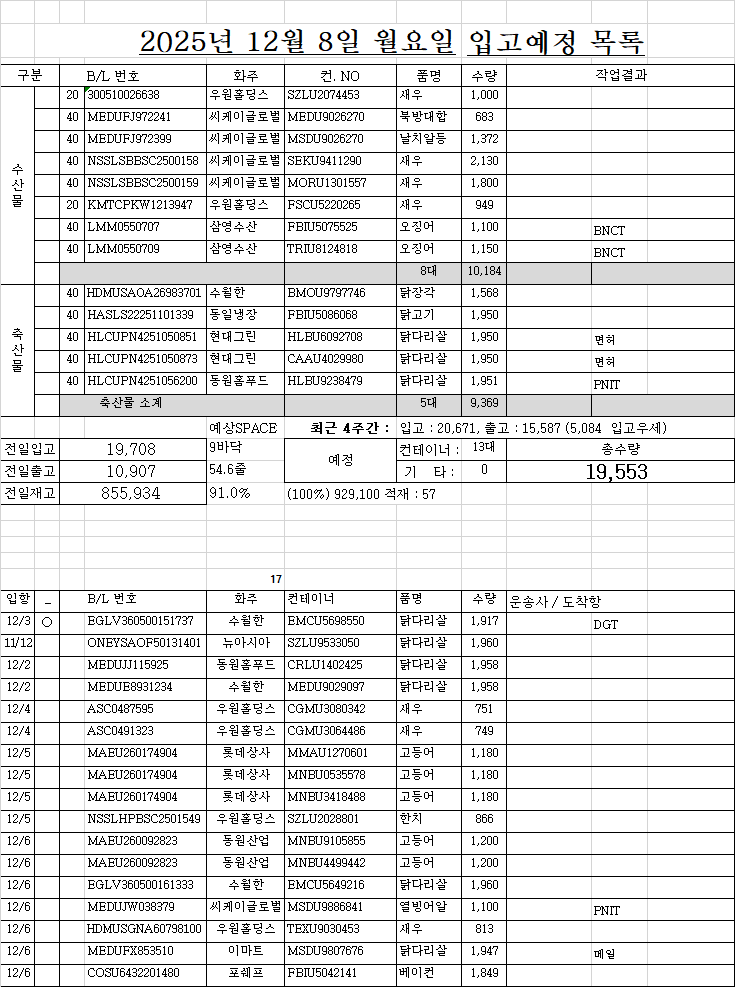
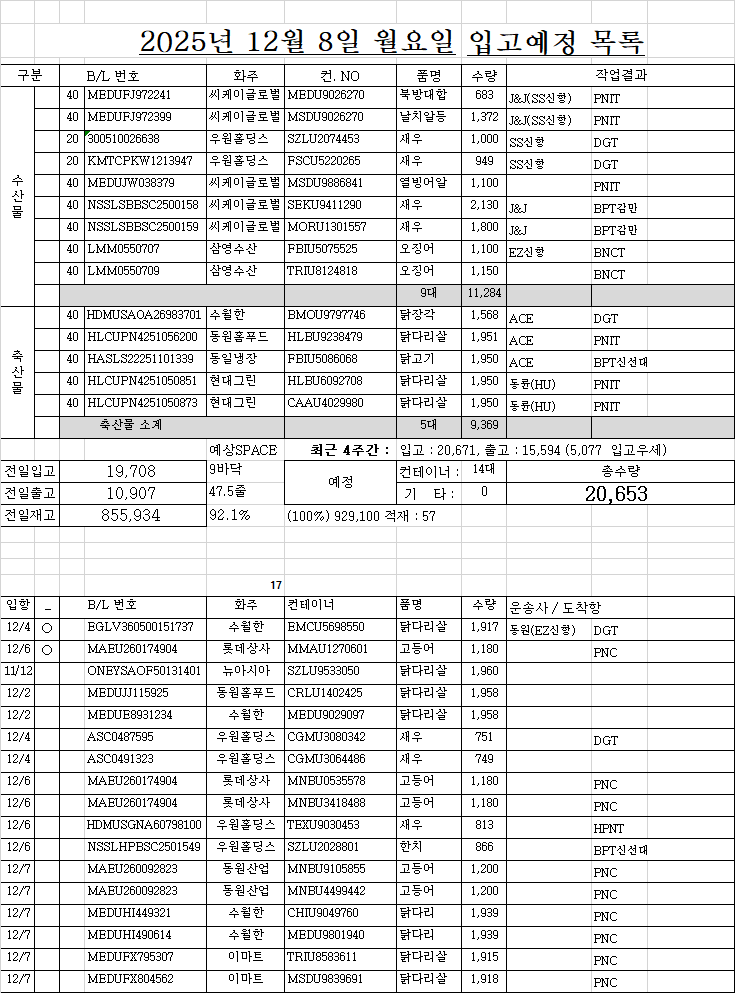
dsfsdfds

diff --git a/list.html b/list.html
@@ -125,80 +125,80 @@
 </div>
 <!-- ★★★★★★ 따로 빼 놔야한다. 복붙하면 첫칸 비어도 되는데, 여기서는 첫칸비우면 당겨진다. -->
 <!-- ★ 엑셀범위를 브라우저 textarea에 붙여넣으면 첫셀 비어도 제대로 되는데... HTML에 붙여놓은 자료는 처음셀이 비어있으면 당겨짐 -->
-<div class="d-none" id="원본text_리스트1부터w요약열까지">작성	면허	B/LNO.	화주	컨테이너NO.	품명	수량	반입NO.	입항일	구분	도착일	도착시간	구분	운.도VBA	12/05 금 16:45	화찰BL	화찰 선명	화물관리번호	화찰수량	화찰중량	화찰입항	리스트시트기준열	
-1	○	300510026638	우원홀딩스	SZLU2074453	새우	1,000 		12/2	1			20 			300510026638	KMTC SEOUL	25KMTC4173I-1015-	1,000 	15,000.00 	2025.12.05	12/05 금 16:45	
-1	○	MEDUFJ972241	씨케이글로벌	MEDU9026270	북방대합	683 		12/5	1						MEDUFJ972241	MSC BEIRA IV	25MSCU4471I-0313-	683 	2,900.80 	2025.12.05	조회정보	
-1	○	MEDUFJ972399	씨케이글로벌	MSDU9026270	날치알등	1,372 		12/5	1						MEDUFJ972399	MSC BEIRA IV	25MSCU4471I-0312-	1,372 	20,972.15 	2025.12.05	적재	57 
-1	○	NSSLSBBSC2500158	씨케이글로벌	SEKU9411290	새우	2,130 		12/5	1						NSSLSBBSC2500158	STARSHIP VENUS	25NSSLK040I-3029-	2,130 	12,268.80 	2025.12.06	4,617 	3줄
-1	○	NSSLSBBSC2500159	씨케이글로벌	MORU1301557	새우	1,800 		12/5	1						NSSLSBBSC2500159	STARSHIP VENUS	25NSSLK040I-3030-	1,800 	21,600.00 	2025.12.06	6,156 	4줄
-1	○	KMTCPKW1213947	우원홀딩스	FSCU5220265	새우	949 		12/5	1			20 			KMTCPKW1213947	KMTC SEOUL	25KMTC4173I-0052-	949 	9,992.97 	2025.12.05	7,695 	5줄
-1		LMM0550707	삼영수산	FBIU5075525	오징어	1,100 	BNCT	12/6	1				BNCT			CMA CGM XIAMEN					9,234 	6줄
-1		LMM0550709	삼영수산	TRIU8124818	오징어	1,150 	BNCT	12/6	1				BNCT			CMA CGM XIAMEN						
-1	○	HDMUSAOA26983701	수월한	BMOU9797746	닭장각	1,568 		11/30	2						HDMUSAOA26983701	NYK RUMINA	25ONEY1485I-7016-	1,568 	24,304.00 	2025.11.30	출고/입고 4주간	
-1	○	HASLS22251101339	동일냉장	FBIU5086068	닭고기	1,950 		12/4	2						HASLS22251101339	SAWASDEE DENEB	25SNKO4590I-8336-	1,950 	24,960.00 	2025.12.04	1일 7/5	5일줄
-1	○	HLCUPN4251050851	현대그린	HLBU6092708	닭다리살	1,950 	면허	12/4	2						HLCUPN4251050851	ONE SAPPHIRE	25ONEY1495I-6510-	1,950 	24,219.00 	2025.12.04	15,587 	50.6
-1	○	HLCUPN4251050873	현대그린	CAAU4029980	닭다리살	1,950 	면허	12/4	2						HLCUPN4251050873	ONE SAPPHIRE	25ONEY1495I-6511-	1,950 	24,219.00 	2025.12.04	20,671 	67.2
-1	○	HLCUPN4251056200	동원홈푸드	HLBU9238479	닭다리살	1,951 	PNIT	12/5	2				PNIT		HLCUPN4251056200	ONE SAPPHIRE	25ONEY1495I-6513-	1,951 	24,398.96 	2025.12.04	내국제외	
-2	○	EGLV360500151737	수월한	EMCU5698550	닭다리살	1,917 	DGT	12/3	2				DGT		EGLV360500151737	EVER VAST	25EVER6141I-0460-	1,917 	23,962.50 	2025.12.04	구분	대수
-		ONEYSAOF50131401	뉴아시아	SZLU9533050	닭다리살	1,960 		11/12	2												수산	20
-		MEDUJJ115925	동원홈푸드	CRLU1402425	닭다리살	1,958 		12/2	2							ONE AMAZON					축산	54
-		MEDUE8931234	수월한	MEDU9029097	닭다리살	1,958 		12/2	2							ONE AMAZON					합계	74
-		ASC0487595	우원홀딩스	CGMU3080342	새우	751 		12/4	1			20 										
-		ASC0491323	우원홀딩스	CGMU3064486	새우	749 		12/4	1			20 									화주별 요약	
-		MAEU260174904	롯데상사	MMAU1270601	고등어	1,180 		12/5	1												화주	대수
-		MAEU260174904	롯데상사	MNBU0535578	고등어	1,180 		12/5	1												수월한	21
-		MAEU260174904	롯데상사	MNBU3418488	고등어	1,180 		12/5	1												대상 주식회사	9
-		NSSLHPBSC2501549	우원홀딩스	SZLU2028801	한치	866 		12/5	1			20 									우원홀딩스	7
-		MAEU260092823	동원산업	MNBU9105855	고등어	1,200 		12/6	1												참트레이딩	6
-		MAEU260092823	동원산업	MNBU4499442	고등어	1,200 		12/6	1												씨케이글로벌	5
-		EGLV360500161333	수월한	EMCU5649216	닭다리살	1,960 		12/6	2							 EVER VIVE					아스트로스	5
-		MEDUJW038379	씨케이글로벌	MSDU9886841	열빙어알	1,100 	PNIT	12/6	1				PNIT			MSC ANNABELLA					이마트	4
-		HDMUSGNA60798100	우원홀딩스	TEXU9030453	새우	813 		12/6	1			20 									삼영수산	3
-		MEDUFX853510	이마트	MSDU9807676	닭다리살	1,947 	메일	12/6	2												롯데상사	3
-		COSU6432201480	포쉐프	FBIU5042141	베이컨	1,849 		12/6	2												현대그린	2
-		MAEUJBS289851	오케이푸드	MMAU1084145	닭다리살	1,953 		12/7	2												동원홈푸드	2
-		HLCUPN4251057650	오케이푸드	SEGU9418480	닭다리살	1,958 		12/8	2												동원산업	2
-		MEDUFX795307	이마트	TRIU8583611	닭다리살	1,915 	메일	12/8	2												오케이푸드	2
-		MEDUFX804562	이마트	MSDU9839691	닭다리살	1,918 	메일	12/8	2												대성무역	2
-		SSZ1691934	대상 주식회사	CGMU5519882	닭발	1,500 		12/9	2												동일냉장	1
-		MAEUJBS288307	수월한	MNBU0304856	닭다리	1,900 		12/9	2							MAERSK EDIRNE					뉴아시아	1
-		MAEUJBS289850	수월한	SUDU8246685	닭다리	1,939 		12/9	2							MAERSK EDIRNE					포쉐프	1
-		MAEUJBS288748	이마트	MNBU4348955	닭다리살	1,908 	메일	12/9	2												합계	76
-		HDMUSAOA12425500	대상 주식회사	TEMU9688332	닭발	1,666 		12/10	2													
-		EGLV360500156836	수월한	EMCU5455381	닭다리살	1,960 		12/10	2							 EVER VIVE						
-		MEDUHI449321	수월한	CHIU9049760	닭다리	1,939 		12/10								MSC TRIESTE						
-		MEDUHI490614	수월한	MEDU9801940	닭다리	1,939 		12/10														
-		ONEYSAOF55632801	수월한	ONEU9121150	닭다리살	1,960 		12/10	2													
-		ONEYSAOF55632805	수월한	TRIU8015416	닭다리살	1,917 		12/10	2													
-		ONEYSAOF55632816	수월한	IKSU2508322	닭다리살	1,917 		12/10	2							REN JIAN 20						
-		ONEYSAOF58679800	수월한	ONEU9474141	닭다리살	1,960 		12/10	2													
-		ONEYSAOF58679803	수월한	ONEU9117838	닭다리살	1,917 		12/10	2													
-		EGLV360500160362	아스트로스	EMCU5704530	닭다리살	1,960 		12/10	2							 EVER VIVE						
-		MAEU607470276	참트레이딩	MNBU3610356	닭장각	1,568 	PNC	12/10	2				PNC			MAERSK EDIRNE						
-		SSZ1694827	대상 주식회사	SEKU9252516	닭발	1,500 		12/11	2													
-		ONEYSAOF55412400	수월한	ONEU9009772	닭다리살	1,917 		12/11	2													
-		ONEYSAOF55412401	아스트로스	TTNU8740871	닭다리살	1,960 		12/11	2													
-		HDMUSGNA77191502	우원홀딩스	TEKU9033956	새우	876 		12/11	1			20 										
+<div class="d-none" id="원본text_리스트1부터w요약열까지">작성	면허	B/LNO.	화주	컨테이너NO.	품명	수량	반입NO.	입항일	구분	도착일	도착시간	구분	운.도VBA	12/05 금 17:07	화찰BL	화찰 선명	화물관리번호	화찰수량	화찰중량	화찰입항	리스트시트기준열	
+1	○	MEDUFJ972241	씨케이글로벌	MEDU9026270	북방대합	683 	J&J(SS신항).PNIT	12/5	1				J&J(SS신항).PNIT		MEDUFJ972241	MSC BEIRA IV	25MSCU4471I-0313-	683 	2,900.80 	2025.12.05	12/05 금 17:07	
+1	○	MEDUFJ972399	씨케이글로벌	MSDU9026270	날치알등	1,372 	J&J(SS신항).PNIT	12/5	1				J&J(SS신항).PNIT		MEDUFJ972399	MSC BEIRA IV	25MSCU4471I-0312-	1,372 	20,972.15 	2025.12.05	조회정보	
+1	○	300510026638	우원홀딩스	SZLU2074453	새우	1,000 	SS신항.DGT	12/5	1			20 	SS신항.DGT		300510026638	KMTC SEOUL	25KMTC4173I-1015-	1,000 	15,000.00 	2025.12.05	적재	57 
+1	○	KMTCPKW1213947	우원홀딩스	FSCU5220265	새우	949 	SS신항.DGT	12/5	1			20 	SS신항.DGT		KMTCPKW1213947	KMTC SEOUL	25KMTC4173I-0052-	949 	9,992.97 	2025.12.05	4,617 	3줄
+1	○	MEDUJW038379	씨케이글로벌	MSDU9886841	열빙어알	1,100 	PNIT	12/6	1				PNIT		MEDUJW038379	MSC ANNABELLA	25MSCU3319I-0149-	1,100 	24,640.00 	2025.12.06	6,156 	4줄
+1	○	NSSLSBBSC2500158	씨케이글로벌	SEKU9411290	새우	2,130 	J&J.BPT감만	12/6	1				J&J.BPT감만		NSSLSBBSC2500158	STARSHIP VENUS	25NSSLK040I-3029-	2,130 	12,268.80 	2025.12.06	7,695 	5줄
+1	○	NSSLSBBSC2500159	씨케이글로벌	MORU1301557	새우	1,800 	J&J.BPT감만	12/6	1				J&J.BPT감만		NSSLSBBSC2500159	STARSHIP VENUS	25NSSLK040I-3030-	1,800 	21,600.00 	2025.12.06	9,234 	6줄
+1	○	LMM0550707	삼영수산	FBIU5075525	오징어	1,100 	EZ신항.BNCT	12/8	1				EZ신항.BNCT		LMM0550707	CMA CGM RIMBAUD	25CMAL0672I-2035-	1,100 	23,890.00 	2025.12.06		
+1		LMM0550709	삼영수산	TRIU8124818	오징어	1,150 	BNCT	12/8	1				BNCT			CMA CGM XIAMEN					출고/입고 4주간	
+1	○	HDMUSAOA26983701	수월한	BMOU9797746	닭장각	1,568 	ACE.DGT	11/30	2				ACE.DGT		HDMUSAOA26983701	NYK RUMINA	25ONEY1485I-7016-	1,568 	24,304.00 	2025.11.30	1일 7/5	5일줄
+1	○	HLCUPN4251056200	동원홈푸드	HLBU9238479	닭다리살	1,951 	ACE.PNIT	12/4	2				ACE.PNIT		HLCUPN4251056200	ONE SAPPHIRE	25ONEY1495I-6513-	1,951 	24,398.96 	2025.12.04	15,594 	50.7
+1	○	HASLS22251101339	동일냉장	FBIU5086068	닭고기	1,950 	ACE.BPT신선대	12/4	2				ACE.BPT신선대		HASLS22251101339	SAWASDEE DENEB	25SNKO4590I-8336-	1,950 	24,960.00 	2025.12.04	20,671 	67.2
+1	○	HLCUPN4251050851	현대그린	HLBU6092708	닭다리살	1,950 	동륜(HU).PNIT	12/4	2				동륜(HU).PNIT		HLCUPN4251050851	ONE SAPPHIRE	25ONEY1495I-6510-	1,950 	24,219.00 	2025.12.04	내국제외	
+1	○	HLCUPN4251050873	현대그린	CAAU4029980	닭다리살	1,950 	동륜(HU).PNIT	12/4	2				동륜(HU).PNIT		HLCUPN4251050873	ONE SAPPHIRE	25ONEY1495I-6511-	1,950 	24,219.00 	2025.12.04	구분	대수
+2	○	EGLV360500151737	수월한	EMCU5698550	닭다리살	1,917 	동원(EZ신항).DGT	12/4	2				동원(EZ신항).DGT		EGLV360500151737	EVER VAST	25EVER6141I-0460-	1,917 	23,962.50 	2025.12.04	수산	20
+2	○	MAEU260174904	롯데상사	MMAU1270601	고등어	1,180 	PNC	12/6	1				PNC		MAEU260174904	GRASMERE MAERSK	25MAEU0799I-1128-	3,540 	74,340.00 	2025.12.06	축산	54
+		ONEYSAOF50131401	뉴아시아	SZLU9533050	닭다리살	1,960 		11/12	2							NYK FUTAGO					합계	74
+		MEDUJJ115925	동원홈푸드	CRLU1402425	닭다리살	1,958 		12/2	2							ONE AMAZON						
+		MEDUE8931234	수월한	MEDU9029097	닭다리살	1,958 		12/2	2							ONE AMAZON					화주별 요약	
+		ASC0487595	우원홀딩스	CGMU3080342	새우	751 	DGT	12/4	1			20 	DGT			KOTA NASRAT(KI8)					화주	대수
+		ASC0491323	우원홀딩스	CGMU3064486	새우	749 		12/4	1			20 				KOTA NASRAT					수월한	21
+		MAEU260174904	롯데상사	MNBU0535578	고등어	1,180 	PNC	12/6	1				PNC			GRASMERE MAERSK					대상 주식회사	9
+		MAEU260174904	롯데상사	MNBU3418488	고등어	1,180 	PNC	12/6	1				PNC			GRASMERE MAERSK					우원홀딩스	7
+		HDMUSGNA60798100	우원홀딩스	TEXU9030453	새우	813 	HPNT	12/6	1			20 	HPNT			HMM HARMONY					참트레이딩	6
+		NSSLHPBSC2501549	우원홀딩스	SZLU2028801	한치	866 	BPT신선대	12/6	1			20 	BPT신선대			STARSHIP TAURUS					씨케이글로벌	5
+		MAEU260092823	동원산업	MNBU9105855	고등어	1,200 	PNC	12/7	1				PNC			KUALA LUMPUR EXPRESS					아스트로스	5
+		MAEU260092823	동원산업	MNBU4499442	고등어	1,200 	PNC	12/7	1				PNC			KUALA LUMPUR EXPRESS					이마트	4
+		MEDUHI449321	수월한	CHIU9049760	닭다리	1,939 	PNC	12/7					PNC			MSC TRIESTE					삼영수산	3
+		MEDUHI490614	수월한	MEDU9801940	닭다리	1,939 	PNC	12/7					PNC			MSC TRIESTE					롯데상사	3
+		MEDUFX795307	이마트	TRIU8583611	닭다리살	1,915 	PNC	12/7	2				PNC			MSC TRIESTE					동원홈푸드	2
+		MEDUFX804562	이마트	MSDU9839691	닭다리살	1,918 	PNC	12/7	2				PNC			MSC TRIESTE					현대그린	2
+		HLCUPN4251057650	오케이푸드	SEGU9418480	닭다리살	1,958 	PNIT	12/8	2				PNIT			MONTEVIDEO EXPRESS					동원산업	2
+		MAEUJBS289851	오케이푸드	MMAU1084145	닭다리살	1,953 	PNC	12/8	2				PNC			NORDAGER MAERSK					오케이푸드	2
+		MAEU607470317	참트레이딩	SUDU8223421	닭장각	1,568 	PNC	12/8	2				PNC			NORDAGER MAERSK					대성무역	2
+		MAEU607470318	참트레이딩	MNBU3701918	닭장각	1,568 	PNC	12/8	2				PNC			NORDAGER MAERSK					동일냉장	1
+		MAEU607470323	참트레이딩	MNBU3743507	닭장각	1,568 	PNC	12/8	2				PNC			NORDAGER MAERSK					뉴아시아	1
+		SSZ1691934	대상 주식회사	CGMU5519882	닭발	1,500 		12/9	2							COSCO FAITH 					포쉐프	1
+		COSU6432201480	포쉐프	FBIU5042141	베이컨	1,849 	BNCT	12/9	2				BNCT			COSCO FAITH					합계	76
+		HDMUSAOA12425500	대상 주식회사	TEMU9688332	닭발	1,666 		12/10	2							REN JIAN 20						
+		EGLV360500156836	수월한	EMCU5455381	닭다리살	1,960 	DGT	12/10	2				DGT			EVER VIVE(NSB)						
+		EGLV360500161333	수월한	EMCU5649216	닭다리살	1,960 	DGT	12/10	2				DGT			EVER VIVE(NSB)						
+		ONEYSAOF55412400	수월한	ONEU9009772	닭다리살	1,917 	HPNT	12/10	2				HPNT			ONE CONTRIBUTION						
+		ONEYSAOF55632801	수월한	ONEU9121150	닭다리살	1,960 	DGT	12/10	2				DGT			REN JIAN 20(SX2)						
+		ONEYSAOF55632805	수월한	TRIU8015416	닭다리살	1,917 	DGT	12/10	2				DGT			REN JIAN 20(SX2)						
+		ONEYSAOF55632816	수월한	IKSU2508322	닭다리살	1,917 	DGT	12/10	2				DGT			REN JIAN 20(SX2)						
+		ONEYSAOF58679800	수월한	ONEU9474141	닭다리살	1,960 	DGT	12/10	2				DGT			REN JIAN 20(SX2)						
+		ONEYSAOF58679803	수월한	ONEU9117838	닭다리살	1,917 	DGT	12/10	2				DGT			REN JIAN 20(SX2)						
+		EGLV360500160362	아스트로스	EMCU5704530	닭다리살	1,960 	DGT	12/10	2				DGT			EVER VIVE(NSB)						
+		ONEYSAOF55412401	아스트로스	TTNU8740871	닭다리살	1,960 	HPNT	12/10	2				HPNT			ONE CONTRIBUTION						
+		MAEUJBS288307	수월한	MNBU0304856	닭다리	1,900 	PNC	12/11	2				PNC			MAERSK EDIRNE						
+		MAEUJBS289850	수월한	SUDU8246685	닭다리	1,939 	PNC	12/11	2				PNC			MAERSK EDIRNE						
+		HDMUSGNA77191502	우원홀딩스	TEKU9033956	새우	876 		12/11	1			20 				REN JIAN 20						
+		MAEUJBS288748	이마트	MNBU4348955	닭다리살	1,908 	PNC	12/11	2				PNC			MAERSK EDIRNE						
+		MAEU607470276	참트레이딩	MNBU3610356	닭장각	1,568 	PNC	12/11	2				PNC			MAERSK EDIRNE						
+		MAEU607470714	참트레이딩	SUDU6200880	닭장각	1,568 	PNC	12/11	2				PNC			MAERSK EDIRNE						
+		MAEUSSZ795333	대상 주식회사	MNBU0123863	닭다리살	1,980 	PNC	12/12	2				PNC			MAERSK CAP JERVIS						
 		LMM0554164	삼영수산	FBIU5084466	오징어	743 		12/12	1													
-		MAEUSSZ795333	대상 주식회사	MNBU0123863	닭다리살	1,980 		12/13	2													
-		SSZ1682875	참트레이딩	TCLU1211855	닭장각	1,568 	BCT	12/13	2				BCT			OOCL LUXEMBOURG						
-		MEDUHI492164	대상 주식회사	TRIU8395487	닭발	1,566 		12/16	2													
+		SSZ1682875	참트레이딩	TCLU1211855	닭장각	1,568 	BCT	12/14	2				BCT			OOCL LUXEMBOURG						
+		MEDUFX853510	이마트	MSDU9807676	닭다리살	1,947 	BCT	12/15	2				BCT			MSC MARIE						
+		MEDUHI492164	대상 주식회사	TRIU8395487	닭발	1,566 	PNIT	12/16	2				PNIT			MSC CARLOTTA						
+		SSZ1694827	대상 주식회사	SEKU9252516	닭발	1,500 	BNCT	12/16	2				BNCT			CMA CGM LISBON						
 		HDMUSAOA34469500	대성무역	HMMU5469217	닭다리살	1,953 		12/16	2													
 		HDMUSAOA19640111	수월한	HDMU5563652	닭다리살	1,960 		12/17	2													
 		MEDUHI490630	수월한	CRXU6922115	닭다리살	1,939 		12/17	2													
 		MEDUHI514769	수월한	MSCU7371890	닭다리살	1,939 		12/17	2													
-		EGLV360500127976	대상 주식회사	EGSU5070265	닭다리살	1,950 		12/19	2													
+		EGLV360500127976	대상 주식회사	EGSU5070265	닭다리살	1,950 		12/19	2							 EVER VERT						
 		SAO500856200	아스트로스	FBIU5241185	닭발	1,500 		12/25	2													
 		EGLV360500167935	수월한	EGSU5052662	닭다리살	1,960 		12/26	2													
-		MEDUHI500545	대상 주식회사	MEDU9701956	닭발	1,566 		12/29	2													
+		MEDUHI500545	대상 주식회사	MEDU9701956	닭발	1,566 		12/29	2							MSC ELISA XIII 						
+		SSZ1708682	대상 주식회사	APRU6125505	닭발	1,500 		12/31	2							CMA CGM LEGACY						
 		SAO500855900	아스트로스	FBIU5721944	닭발	1,500 		12/31	2													
 		SAO500886100	아스트로스	PCIU6113365	닭발	1,500 		12/31	2													
-		SSZ1708682	대상 주식회사	APRU6125505	닭발	1,500 		1/15	2													
-		MEDUJJ126302	대상 주식회사	MSDU9700290	닭다리살	1,980 			2													
-		MAEU607470317	참트레이딩	SUDU8223421	닭장각	1,568 			2													
-		MAEU607470318	참트레이딩	MNBU3701918	닭장각	1,568 			2													
-		MAEU607470323	참트레이딩	MNBU3743507	닭장각	1,568 			2													
-		MAEU607470714	참트레이딩	SUDU6200880	닭장각	1,568 			2													
+		MEDUJJ126302	대상 주식회사	MSDU9700290	닭다리살	1,980 		미정	2													
 		MEDUFX824495	대성무역	TTNU8062938	닭다리	1,953 		미정	2							PARANAGUA EXPRESS						
 		MEDUHI500552	수월한	MEDU9099010	닭다리	1,863 		미정	2													
 		MEDUJJ113896	수월한	OTPU6700126	닭다리살	1,957 		미정	2													
